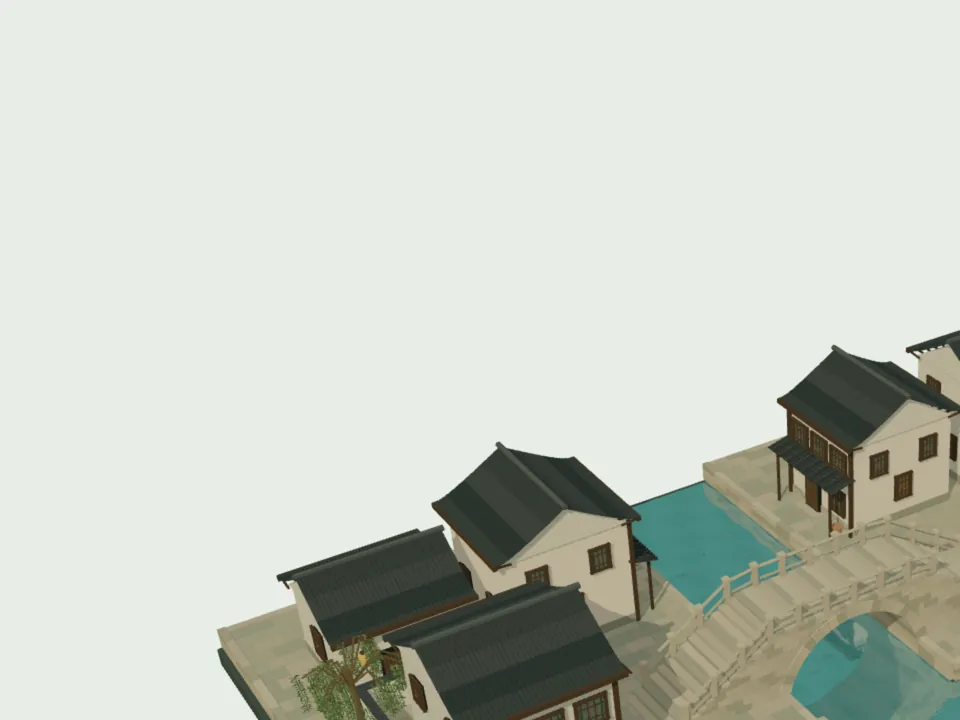
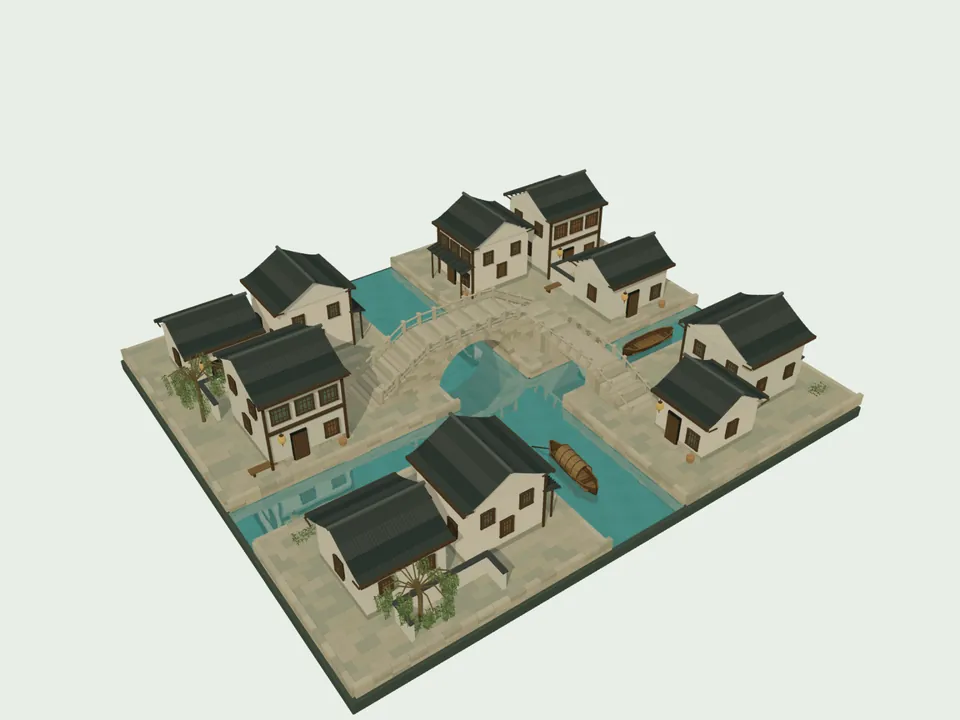
Polish Zhouzhuang cover and documentation

diff --git a/README.md b/README.md
@@ -1,6 +1,6 @@
 # 微缩山水 · Miniature ShanShui
 
-从昆明的金马碧鸡坊与大观楼开始，在浏览器里转动一方微缩景观。项目是纯前端单页应用，无账号、后端或外部数据服务。
+从昆明的金马碧鸡坊与大观楼，到苏州的周庄双桥，在浏览器里转动一方微缩景观。项目是纯前端单页应用，无账号、后端或外部数据服务。
 
 ## 页面预览
 
@@ -8,14 +8,19 @@
 | :---: | :---: |
 | ![金马碧鸡坊日游页面截图](docs/screenshots/jinma-day.jpg) | ![大观楼夜游页面截图](docs/screenshots/daguan-night.jpg) |
 
+| 03 · 周庄双桥（日游） | 03 · 周庄双桥（夜游） |
+| :---: | :---: |
+| ![周庄双桥日游页面截图](docs/screenshots/zhouzhuang-day.jpg) | ![周庄双桥夜游页面截图](docs/screenshots/zhouzhuang-night.jpg) |
+
 ## 浏览与操作
 
-- 在景观目录中切换金马碧鸡坊与大观楼；每景都有自己的观看视角。拖动模型旋转，使用滚轮或双指缩放。
+- 在景观目录中切换金马碧鸡坊、大观楼与周庄双桥；每景都有自己的观看视角。拖动模型旋转，使用滚轮或双指缩放。
 - 模型入场后会缓慢自动旋转，拖动后停转。展台右下角可以复位视角并重新开启自动旋转，也可以进入沉浸观景；按 `Esc` 可以退出沉浸模式。
 - 切换“日游”“夜游”，查看柔和阳光与夜间灯光。点击当前景观的“走近”按钮阅读历史与掌故，点击“景观目录”查看已收录场景。
+- 周庄双桥以石拱桥、石梁桥和十栋沿河民居组成微缩街区，提供“街区／双桥／河巷”三种视角。瓦片、砌石、木窗和船篷以几何细节呈现，水巷有缓慢波纹及随视角变化的桥影、民居与夜灯倒影。
 - 模型载入时显示山水动画；若设备无法运行 WebGL 或模型加载失败，可以点“重新载入”重试，文字资料仍可阅读。启用系统的“减少动态效果”后，页面会简化切换动效。
 
-目前收录 `01 · 金马碧鸡坊`、`02 · 大观楼`。景观信息、目录封面、子视图、相机和灯光统一登记在 `src/scenes.ts`，方便今后加入更多景观；目录只显示实际收录的场景。
+目前收录 `01 · 金马碧鸡坊`、`02 · 大观楼`、`03 · 周庄双桥`。景观信息、目录封面、子视图、相机、灯光和水面效果统一登记在 `src/scenes.ts`，方便今后加入更多景观；目录只显示实际收录的场景。减少动态效果偏好下，周庄水纹停止运动，倒影仍可随观看视角更新。
 
 ## 本地运行
 
@@ -52,8 +57,10 @@ docker run --rm -p 8080:80 miniature-shanshui
 
 ## 内容与许可
 
-项目代码、`public/models/` 的两个网页模型、`public/covers/` 的目录封面与本仓库页面截图，均按仓库根目录的 [MIT License](LICENSE) 开放。公开模型不含源 `.blend` 中从第三方实景照片裁切的贴图或描摹轮廓：金马碧鸡坊的题字与瑞兽改为独立绘制，大观楼的匾额和窗格为简化重绘。两张目录封面均从对应的清洁网页模型重新渲染；可编辑的源 `.blend` 和原预览图暂不公开。金马碧鸡坊简化题字使用 [霞鹜臻楷 GB](https://github.com/lxgw/LxgwZhenKai)，大观楼简化题字使用 [Ma Shan Zheng](https://github.com/googlefonts/mashanzheng)；两款字体依 SIL OFL 1.1 提供，字体文件未随项目分发。这些模型是微缩创作，并非文物测绘资料。
+项目代码、`public/models/` 的三个网页模型、`public/covers/` 的目录封面与本仓库页面截图，均按仓库根目录的 [MIT License](LICENSE) 开放。公开模型不含源 `.blend` 中从第三方实景照片裁切的贴图或描摹轮廓：金马碧鸡坊的题字与瑞兽改为独立绘制，大观楼的匾额和窗格为简化重绘。目录封面均从对应的清洁网页模型重新渲染；可编辑的源 `.blend` 和原预览图暂不公开。金马碧鸡坊简化题字使用 [霞鹜臻楷 GB](https://github.com/lxgw/LxgwZhenKai)，大观楼简化题字使用 [Ma Shan Zheng](https://github.com/googlefonts/mashanzheng)；两款字体依 SIL OFL 1.1 提供，字体文件未随项目分发。这些模型是微缩创作，并非文物测绘资料。
 
-两景页面题词均为本项目原创；历史内容为原创概述，民间掌故明确标注。资料出处可在各景故事面板查看：金马碧鸡坊参阅[云南省民政厅地名文化资料](https://ynmz.yn.gov.cn/cms/dimingfengcai/11216.html)与[昆明信息港文史报道](https://m.kunming.cn/news/c/2023-01-16/13652377.shtml)，大观楼参阅[昆明历史建筑科普](https://www.kunming.cn/news/c/2026-04-22/14035565.shtml)与[大观楼文史报道](https://www.kunming.cn/news/c/2022-08-11/13585378.shtml)。本项目不使用这些来源的图片或原文段落。
+周庄双桥模型使用 Blender 5.2 制作，桥梁、民居、船只和植物均为原创几何与纯色材质，没有摄影贴图、第三方模型或外部法线图片。周边房屋与街巷为水乡风貌的概括创作。网页保留七级 Toon 建筑材质，单独为水巷加入自制波纹和场景反射；源文件、制作脚本及内部验证记录保存在被忽略的 `.agents-docs/`。
+
+各景页面题词均为本项目原创；历史内容为原创概述，民间掌故明确标注。资料出处可在各景故事面板查看：金马碧鸡坊参阅[云南省民政厅地名文化资料](https://ynmz.yn.gov.cn/cms/dimingfengcai/11216.html)与[昆明信息港文史报道](https://m.kunming.cn/news/c/2023-01-16/13652377.shtml)，大观楼参阅[昆明历史建筑科普](https://www.kunming.cn/news/c/2026-04-22/14035565.shtml)与[大观楼文史报道](https://www.kunming.cn/news/c/2022-08-11/13585378.shtml)。周庄双桥参阅[周庄旅游官网](https://zhouzhuang.net/scenic_4/1257.html)、[昆山市人民政府](https://www.ks.gov.cn/kss/tsks/202112/e6157a6b261149879f8322af3980ee62.shtml)与[苏州市地方志资料](https://dfzb.suzhou.gov.cn/dfzb/szdq/201604/949ce3099ec640709af67935765015a8.shtml)。本项目不使用这些来源的图片或原文段落。
 
 运行时使用的 Three.js 依其 MIT 许可分发，Draco 解码器依 Apache License 2.0 分发。项目 MIT 全文、第三方许可和告知文件随静态资源保存在 [`public/licenses/`](public/licenses/)，构建后也包含在 `dist/licenses/`。
